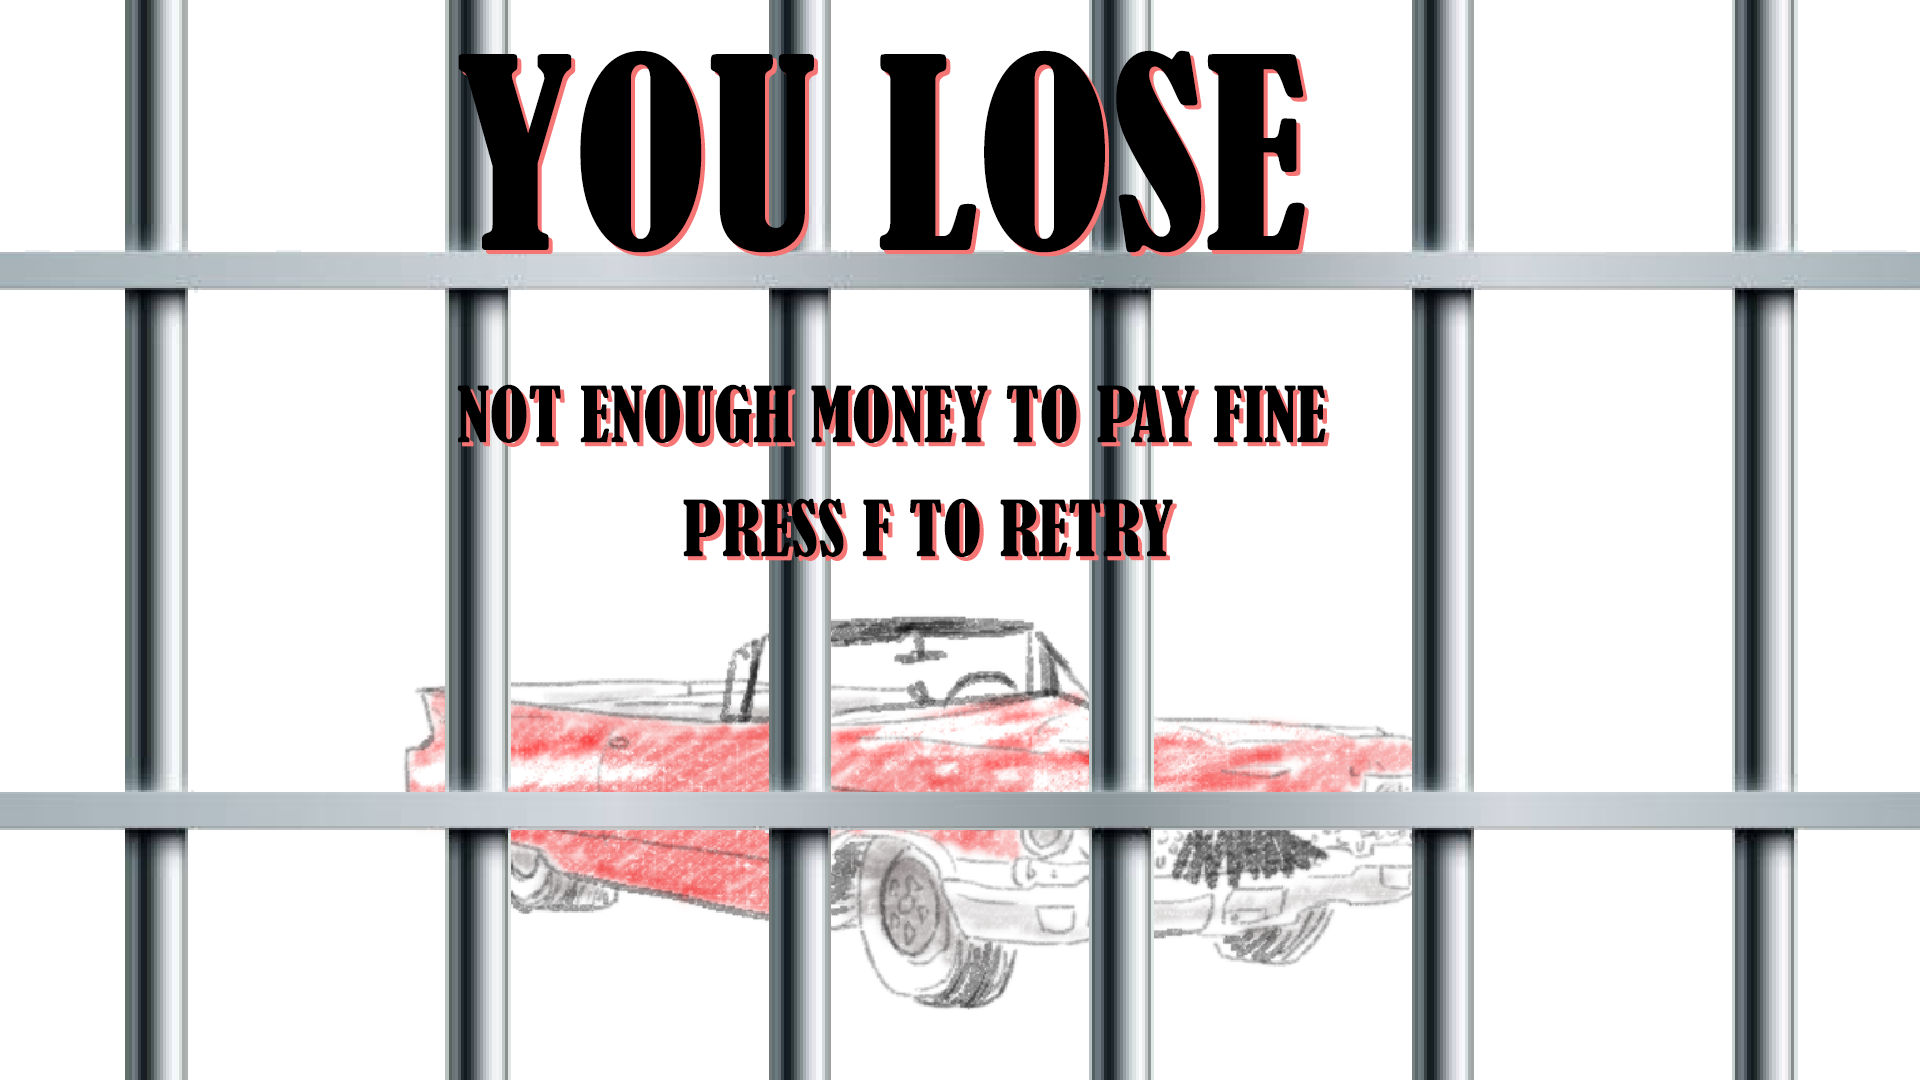
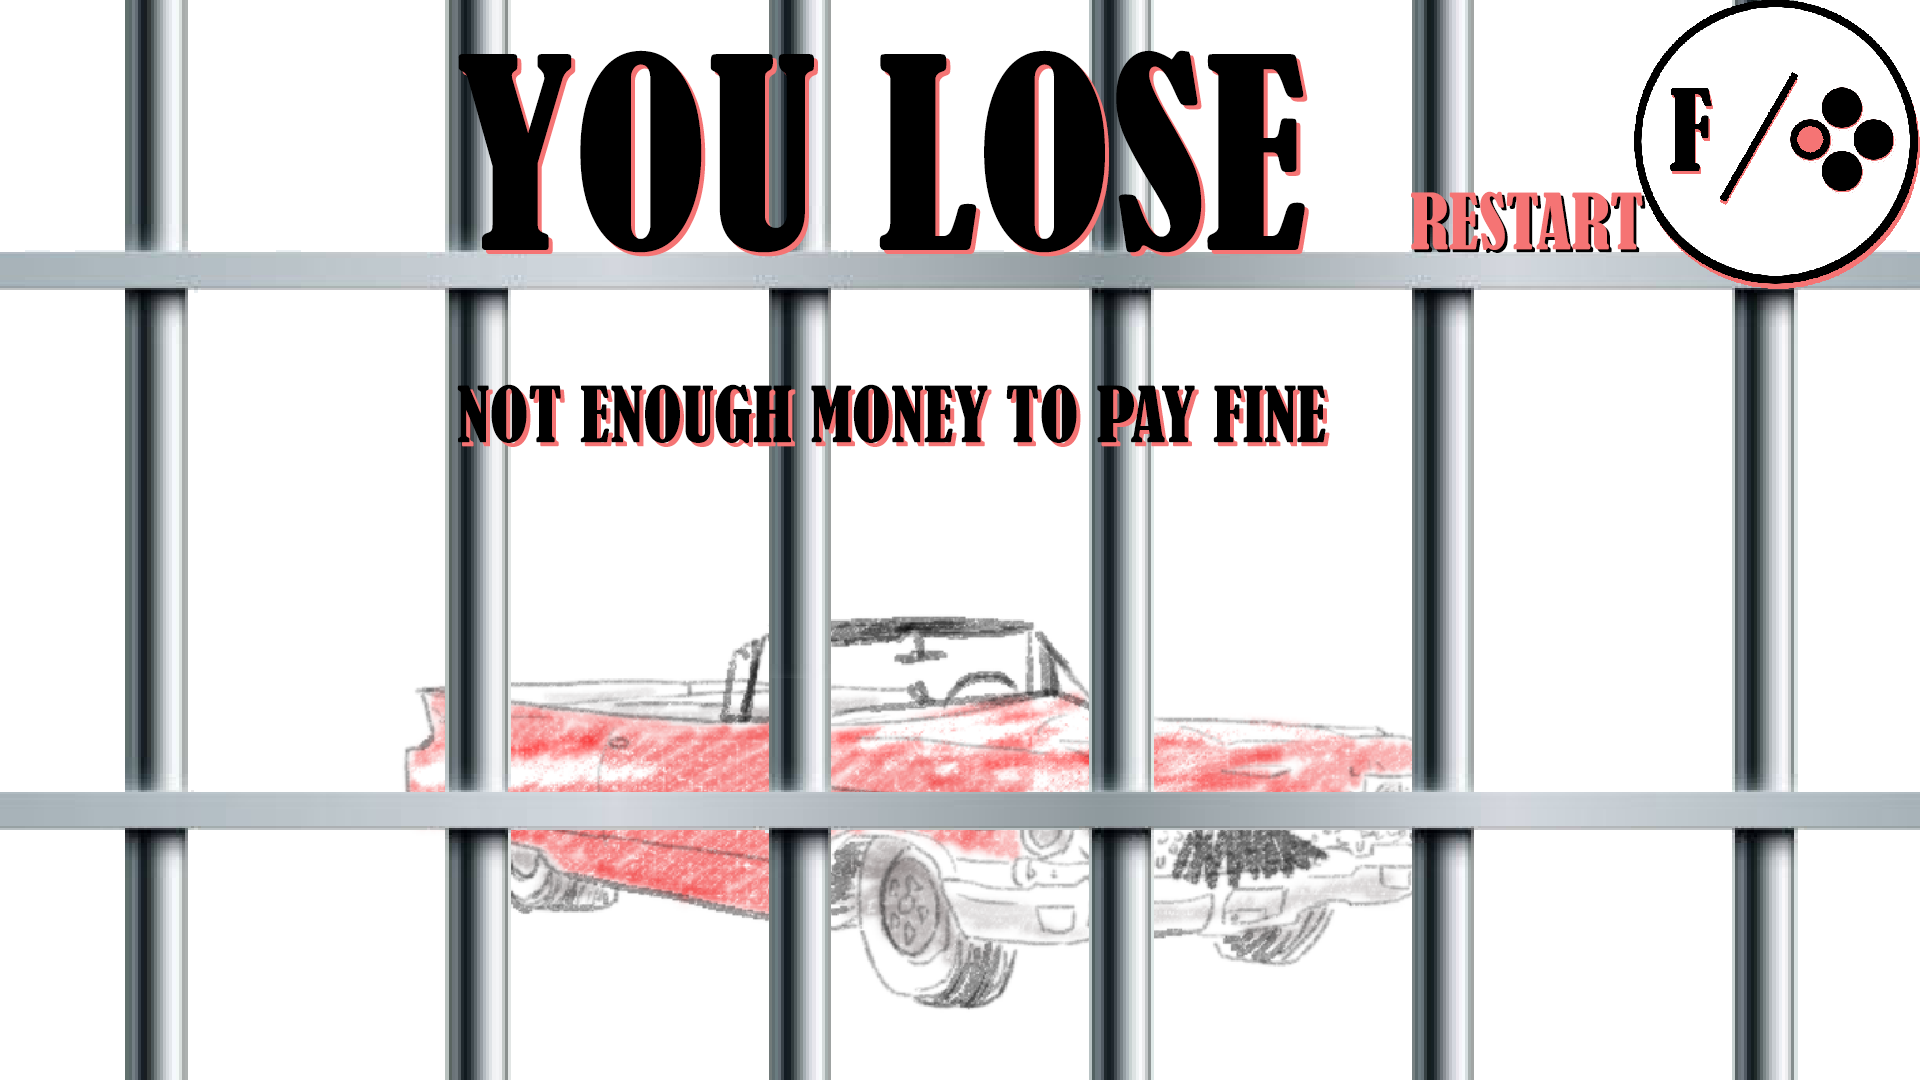
fixed controller functionality with jail/lose

Changed region(s): [[0.7188, 0.0, 1.0, 0.275], [0.3438, 0.4583, 0.625, 0.5194]]

diff --git a/AL_CARPONE/main.cpp b/AL_CARPONE/main.cpp
@@ -302,10 +302,9 @@ int main()
 				GLFWgamepadstate controlState;
 				if (glfwGetGamepadState(GLFW_JOYSTICK_1, &controlState))
 				{
-					if (controlState.buttons[GLFW_GAMEPAD_BUTTON_CROSS])
+					if (controlState.buttons[GLFW_GAMEPAD_BUTTON_SQUARE])
 					{
-						
-							if (!state.cross_isHeld) {
+							if (!state.square_isHeld) {
 
 								player.setCash(0);
 								player.reset();
@@ -317,10 +316,10 @@ int main()
 								state.gamestate = GAMESTATE::GAMESTATE_INGAME;
 								state.gameLost = false;
 							}
-							state.cross_isHeld = true;
+							state.square_isHeld = true;
 						}
 						else {
-						state.cross_isHeld = false;
+						state.square_isHeld = false;
 					}
 					
 				}
@@ -399,25 +398,38 @@ int main()
 				GLFWgamepadstate controlState;
 				if (glfwGetGamepadState(GLFW_JOYSTICK_1, &controlState))
 				{
-					if (controlState.buttons[GLFW_GAMEPAD_BUTTON_CROSS])
+					if (controlState.buttons[GLFW_GAMEPAD_BUTTON_SQUARE])
 					{
+						float bail_cost = 2000.f;
+						if (player.getCash() * 0.75 > bail_cost) bail_cost = player.getCash() * 0.75;
 
-						if (!state.cross_isHeld) {
+						if (!state.square_isHeld) {
 
-							player.setCash(0);
-							player.reset();
+							if (player.getCash() >= bail_cost) {
+								player.setCash(player.getCash() - bail_cost);
+								audio.playSoundEffect(SOUND_SELECTION::PURCHASE_SUCCESS);
+								//player.setPos();
+								PxVec3 p(190.21, 0.96, -194.67);
+								PxQuat q(-0.00, -0.71, 0.00, -0.70);
 
-							for (PoliceCar* p : state.activePoliceVehicles) {
-								p->hardReset();
+								PxTransform t;
+								t.p = p;
+								t.q = q;
+
+								player.actorPtr->setGlobalPose(t);
+
+								state.gamestate = GAMESTATE::GAMESTATE_INGAME;
 							}
-
-							state.gamestate = GAMESTATE::GAMESTATE_INGAME;
-							state.gameLost = false;
+							else {
+								state.gameLost = true;
+								audio.playSoundEffect(SOUND_SELECTION::PURCHASE_FAIL);
+								audio.playSoundEffect(SOUND_SELECTION::LOSEGAME);
+							}
 						}
-						state.cross_isHeld = true;
+						state.square_isHeld = true;
 					}
 					else {
-						state.cross_isHeld = false;
+						state.square_isHeld = false;
 					}
 
 				}
